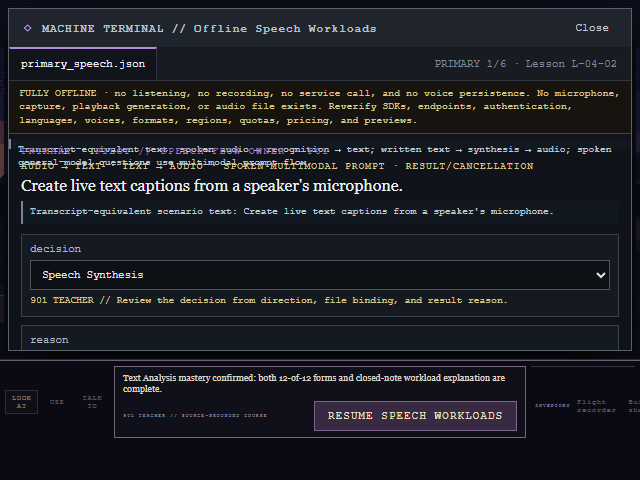
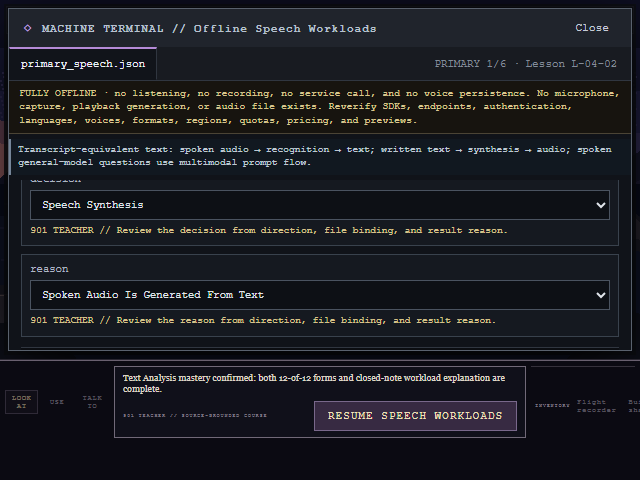
Round 14 step 6 Pixel Patrol Agent checkpoint

diff --git a/horizon-archive-game/src/styles.css b/horizon-archive-game/src/styles.css
@@ -534,6 +534,7 @@ h1 {
 .canonical-game-frame[data-canonical-layout="narrow"] .text-analysis-explanation { grid-template-columns: 1fr; }
 .speech-explanation { grid-template-columns: repeat(4, minmax(0, 1fr)); }
 .canonical-game-frame[data-canonical-layout="narrow"] .speech-explanation { grid-template-columns: 1fr; }
+.speech-workspace { grid-template-rows: auto auto minmax(0, 1fr); }
 .speech-transcript { margin: 5px 0; padding: 5px 7px; color: #bfc8d2; background: #111820; border-left: 2px solid #768699; font-size: 0.6rem; line-height: 1.35; }
 .bridge-retrieval { overflow: auto; }
 .bridge-retrieval fieldset { margin: 6px 0; padding: 6px; color: #aeb7c3; border: 1px solid #39424d; font-size: 0.6rem; }

diff --git a/Pixel Patrol/WORK_LOG.md b/Pixel Patrol/WORK_LOG.md
@@ -1,5 +1,13 @@
 # Pixel Patrol Work Log
 
+## 2026-07-12 — Offline Speech Workloads final visual gate
+
+- **Completed:** audited the complete Speech Workloads primary, transfer, closed-note, and mastered flow. Corrected one essential overlap by giving the persistent transcript-equivalent strip its own workspace grid row. Warning, transcript direction, recognition/synthesis/spoken-multimodal hierarchy, input/output file direction, result/cancellation remediation, Pilot/System/Teacher ownership, contained scroll, focus, Continue handoff, and square-pixel chrome are now coherent at 640 x 480 and 320 x 240.
+- **Files changed:** `horizon-archive-game/src/styles.css`, `Pixel Patrol/PIXEL_METRICS.md`, `Pixel Patrol/UI_AND_TYPE_SPEC.md`, `Pixel Patrol/QA_CHECKLIST.md`, this log, and regenerated Speech QA captures.
+- **Validation:** all 77 unit tests, production build, and full title-to-credits E2E pass with zero runtime errors. Post-fix visual inspection confirms no warning/transcript/form overlap. Captures are byte-distinct: primary `640 x 480`, transfer-remediation `320 x 240`, and closed-note host context `1600 x 900`; `git diff --check` passes.
+- **Next recommended item:** Location Scout should express the three speech directions as separate square conduits—audio-to-text intake, text-to-audio output, and a spoken multimodal branch—with cancellation shown as a gated return state rather than a fourth conduit.
+- **Unresolved risks:** the complete safety warning intentionally consumes most of the initial 320 x 240 work viewport; content remains reachable through the single form traversal. Do not shorten it unless every privacy and volatility boundary remains explicit.
+
 ## 2026-07-12 — Offline Text Analysis final visual gate
 
 - **Completed:** audited the complete Text Analysis primary, transfer, closed-note, and mastered flow after terminology/ownership/focus fixes. The persistent offline keyword-extraction <-> key-phrase bridge remains prominent and complete; key phrases/entities/sentiment/summary hierarchy, stable document-ID correlation, mixed success/error branching, decision/reason cards, four explanation fields, System scores, Teacher remediation, Pilot ownership, contained scrolling, focus, and Continue handoff are coherent at 640 x 480 and 320 x 240. No CSS correction was warranted.

diff --git a/Pixel Patrol/UI_AND_TYPE_SPEC.md b/Pixel Patrol/UI_AND_TYPE_SPEC.md
@@ -152,3 +152,11 @@ Every failure response contains: what the Machine observed, one bounded cue, and
 - At 640 x 480, retain the two-column field grouping. At 320 x 240, use one column and the same single form scroller. No field label, selected value, feedback association, or focus outline may be horizontally clipped.
 - Transfer selects and closed-note text inputs share the same 2 px gold focus outline with a -3 px internal offset. The frame must remain visible at both scroll boundaries and does not depend on native platform glow or color fill alone.
 - Stage hierarchy remains title -> filename/form status -> non-exam boundary -> stage label and scenario -> four fields -> validator/remediation. `PRIMARY`, `TRANSFER`, and `EXPLANATION` must never be communicated only by filename.
+
+## Offline Speech Workloads hierarchy
+
+- Preserve the reading order: Machine/file/status -> offline no-listening/no-recording warning -> transcript-equivalent direction strip -> Pilot-owned scenario or prose -> neutral System validator -> Teacher direction/cancellation remediation.
+- Recognition reads audio input and returns text; synthesis reads text and produces audio output; spoken questions for a deployed general model remain a separate multimodal prompt flow. Input/output direction is communicated in words as well as arrows.
+- Cancellation is a result branch, not a workload. System reports deterministic dimension totals; Teacher owns direction, file-binding, cancellation, and reconstruction guidance; Pilot owns choices and closed-note prose.
+- The warning and transcript strip are separate fixed-height grid rows above the single form scroller. At 320 x 240 their complete text may consume the initial viewport; keyboard focus and scrolling reveal the ordered work without clipping or overlap.
+- Maintain square one-pixel seams, two-pixel ownership rails and focus outlines, the existing indigo/amber/violet ramp, and native accessible controls. Direct and restored mastery move focus to Continue.

diff --git a/Pixel Patrol/PIXEL_METRICS.md b/Pixel Patrol/PIXEL_METRICS.md
@@ -88,3 +88,9 @@ At 1x capture:
 - Every status color has a shape, label, or motion partner.
 - Calibration help is one untruncated line at 640 px and three complete lines in the 320 px alternate layout.
 - Responsible AI uses one contained vertical form scroller. Its header, four complete field cards, validator, remediation, and next action remain in one reading order; no nested field-grid scrollbar is permitted.
+
+## Offline Speech Workloads viewport contract
+
+- Speech uses three fixed workspace rows: persistent offline/no-listening warning, persistent transcript-equivalent direction strip, then one contained scrolling form. The transcript strip must never share or overlap the scenario or closed-note header row.
+- At 640 x 480, recognition `audio -> text`, synthesis `text -> audio`, spoken multimodal prompt flow, and result/cancellation remain readable in that order. At 320 x 240 the same information remains available by vertical traversal; no safety or direction text is removed.
+- The outer Terminal and its title/file/status chrome remain fixed. Primary and transfer use two ordered decision/reason cards at canonical width and one ordered column at narrow width; closed note uses four columns at canonical width and one at narrow width.

diff --git a/Pixel Patrol/QA_CHECKLIST.md b/Pixel Patrol/QA_CHECKLIST.md
@@ -110,6 +110,13 @@ Run at native 640 x 480, 2x 1280 x 960, the 320 x 240 alternate layout, and a no
 
 ## No-dead-end sweep
 
+- [ ] Speech warning remains complete in primary, transfer, and closed-note modes and explicitly states the offline/no-audio boundaries.
+- [ ] Speech transcript-equivalent direction occupies its own row and never overlaps scenario or explanation content.
+- [ ] Recognition audio -> text, synthesis text -> audio, spoken multimodal prompt flow, file direction, and result/cancellation are distinct in reading and remediation order.
+- [ ] Speech Pilot inputs, neutral System scores, and Teacher direction/cancellation remediation remain separate.
+- [ ] Speech primary, transfer-remediation, and closed-note captures are byte-distinct at canonical, narrow, and host-context presentation; scrolling preserves all content.
+- [ ] Speech direct/restored mastery moves focus to Continue, with square-pixel chrome and focus language unchanged.
+
 - [ ] Every scene can recover after every ordinary verb on every hotspot.
 - [ ] No required item can be lost or consumed early.
 - [ ] Hints and retries remain available after failure and restore.
